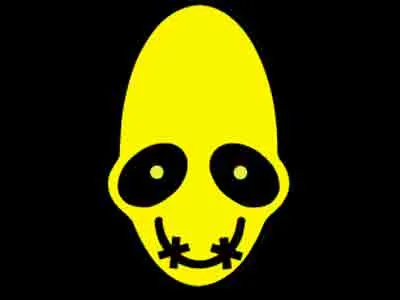
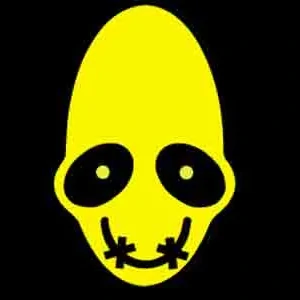
Changed colors to bright.

Changed region(s): [[0.18, 0.0, 0.81, 0.96], [0.51, 0.48, 0.57, 0.63]]

diff --git a/css/post.scss b/css/post.scss
@@ -18,8 +18,8 @@ main {
 
     display: table;
 
-    background: $bg-color*1.5;
-    border: 3px solid $bg-color*3;
+    background: $bg-color/1.05;
+    border: 3px solid $bg-color/1.1;
 
     img {
       max-width: 100%;
@@ -31,10 +31,10 @@ main {
     figcaption {
       padding: 0.2*$scale;
       padding-left: 0.6*$scale;
-      background: $bg-color*2;
+      background: $bg-color*1.1;
       color: $font-color;
 
-      border-top: 3px solid $bg-color*3;
+      border-top: 3px solid $bg-color/1.1;
     }
   }
 
@@ -64,12 +64,12 @@ main {
     width: 55%;
     margin-left: auto;
     margin-right: auto;
-    background: $bg-color/2;
+    background: $bg-color/1.1;
     padding-top: 0.2*$scale;
     padding-bottom: 0.2*$scale;
     padding-left: 1.5*$scale;
     padding-right: 1.5*$scale;
-    border-left: 4px solid $bg-color*4;
+    border-left: 4px solid $bg-color/4;
   }
 
   & > p {
@@ -86,7 +86,7 @@ main {
 }
 
 #links {
-  background: $bg-color*3;
+  background: $bg-color/1.3;
   border-top: 3px solid #222;
 
   & > p {
@@ -116,17 +116,30 @@ main {
 
     li {
       height: 100%;
-      padding: 1*$scale;
-      background: $bg-color * 4;
+      background: $bg-color/1.1;
 
       box-shadow: 0 4px 8px 0 rgba(0,0,0,0.2),0 6px 20px 0 rgba(0,0,0,0.2);
       margin-left: 0.4*$scale;
       margin-right: 0.4*$scale;
 
-      border: 1px solid $bg-color;
-
       h3 {
         margin-top: 0;
+        margin-bottom: $scale/2;
+        background: rgba(16,64,16,0.8);
+        color: $bg-color;
+
+        padding: $scale/2;
+        white-space: nowrap;
+        overflow: hidden;
+        text-overflow: ellipsis;
+      }
+
+      p {
+        margin: 0;
+        padding-left: $scale/2;
+        padding-right: $scale;
+        padding-bottom: $scale*5;
+
       }
     }
   }

diff --git a/css/style.scss b/css/style.scss
@@ -13,6 +13,8 @@ html, body {
   padding: 0;
   margin: 0;
 
+  background: #0e0911*4;
+
   font-size: 1.625*$scale;
   font-family: "Oxygen", "Nimbus Sans", "Helvetica", sans-serif;
 }
@@ -33,18 +35,24 @@ main {
   line-height: 1.6;
   background: $bg-color;
 
+  margin: 0 auto;
+
   padding-top: 1*$scale;
   padding-bottom: 2*$scale;
 
   h1,h2,h3 {
     text-align: center;
-    background: rgba(32,32,32,0.6);
-    color: $font-color;
+    background: rgba(16,64,16,0.8);
+    color: $bg-color;
     margin: 0 auto;
 
     display: table;
     padding-left: 0.8*$scale;
     padding-right: 0.8*$scale;
+
+    a {
+      color: $bg-color;
+    }
   }
 
   & > *:last-child {
@@ -72,7 +80,6 @@ header {
   justify-items: center;
 
   line-height: 1.4;
-  border-bottom: 0.2*$scale solid #222;
 
   & > a {
     display: block;
@@ -126,16 +133,16 @@ footer {
   background: #111;
 
   padding: 1*$scale;
-  color: #e2e2e2;
 
   img {
     margin: 0 auto;
     margin-bottom: 0.4*$scale;
-    width: 5*$scale;
+    width: 6*$scale;
   }
 
   p {
     margin: 0;
     text-align: center;
+    color: $bg-color;
   }
 }

diff --git a/css/timeline.scss b/css/timeline.scss
@@ -7,13 +7,15 @@
   background: #222;
   padding: 0.5*$scale;
 
+  margin-top: $scale;
+
   .event {
-    color: $font-color;
     padding: 0.5*$scale;
     margin-bottom: 0.2*$scale;
   }
 
   p {
+    color: $bg-color;
     margin: 0;
   }
 }
@@ -28,7 +30,7 @@
 
   padding: 1*$scale;
   padding-bottom: 2*$scale;
-  background: $bg-color*2;
+  background: $bg-color/1.1;
   box-shadow: 1px 1px 1px 1px;
 
   h2 {
@@ -47,16 +49,17 @@
 
 
 .month {
-  background: $bg-color*3;
+  background: $bg-color/1.2;
   box-shadow: 1px 1px 1px 1px;
 }
 
 .month_name {
   font-weight: bold;
-  background: rgba(64,64,64,0.8);
-  padding: 0.8*$scale;
+  background: rgba(16,64,16,0.8);
+  padding: 0.6*$scale;
   margin: 0;
   text-align: center;
+    color: $bg-color;
 }
 
 $event-height: 3.5*$scale;
@@ -71,7 +74,7 @@ $event-height: 3.5*$scale;
   height: $event-height;
 
   p:not(.day) {
-    background: $bg-color*4;
+    background: $bg-color/1.1;
   }
 
   p {

diff --git a/css/index_style.scss b/css/index_style.scss
@@ -12,8 +12,6 @@ main h2 {
   font-size: 2.5*$scale;
   text-align: center;
 
-  background: #222;
-  color: $font-color;
   width: 100%;
 }
 
@@ -22,8 +20,8 @@ main h2 {
   margin-bottom: 2*$scale;
   padding-bottom: 2*$scale;
 
-  background: $bg-color*1.5;
-  width: 95%;
+  background: $bg-color*1.1;
+  width: 85%;
 }
 
 ul {
@@ -52,7 +50,7 @@ ul {
 
     transition: all 0.2s ease-in-out;
 
-    background: $bg-color*2;
+    background: $bg-color*1.2;
 
     a {
       display: flex;

diff --git a/css/interview.scss b/css/interview.scss
@@ -10,12 +10,12 @@ p {
 }
 
 main > p:not(.intro) {
-  background: $bg-color*2;
+  background: $bg-color*1.1;
   padding: 1*$scale;
   padding-left: 1*$scale;
   padding-right: 1*$scale;
 
-  border-left: 4px solid $bg-color*4;
+  border-left: 4px solid $bg-color/3;
 }
 
 blockquote {

diff --git a/css/_variables.scss b/css/_variables.scss
@@ -1,3 +1,7 @@
-$font-color: #ddc;
-$bg-color: #0e0911*1.4;
+//$font-color: #ddc;
+//$bg-color: #0e0911*1.4;
+
+$font-color: #2e2e2e;
+$bg-color: #eed;
+
 $scale: 0.6vw;
